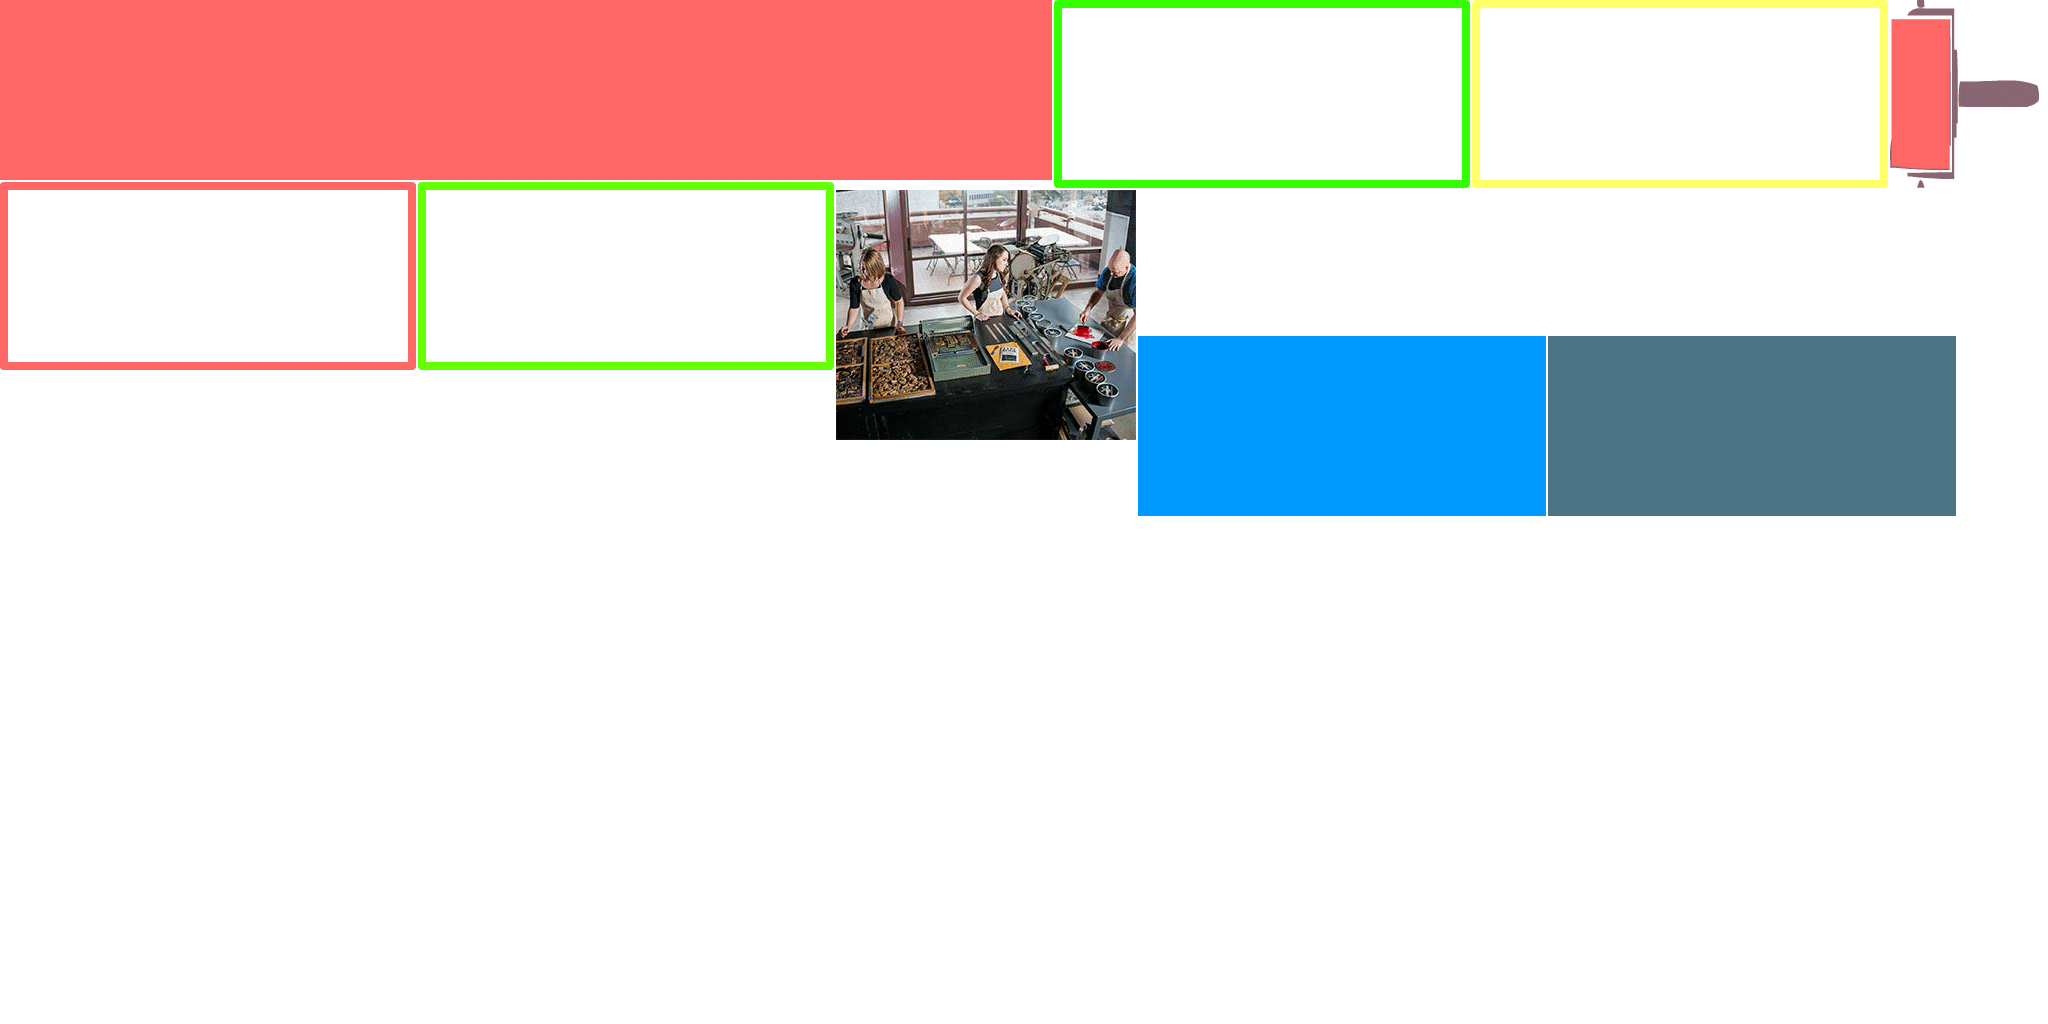
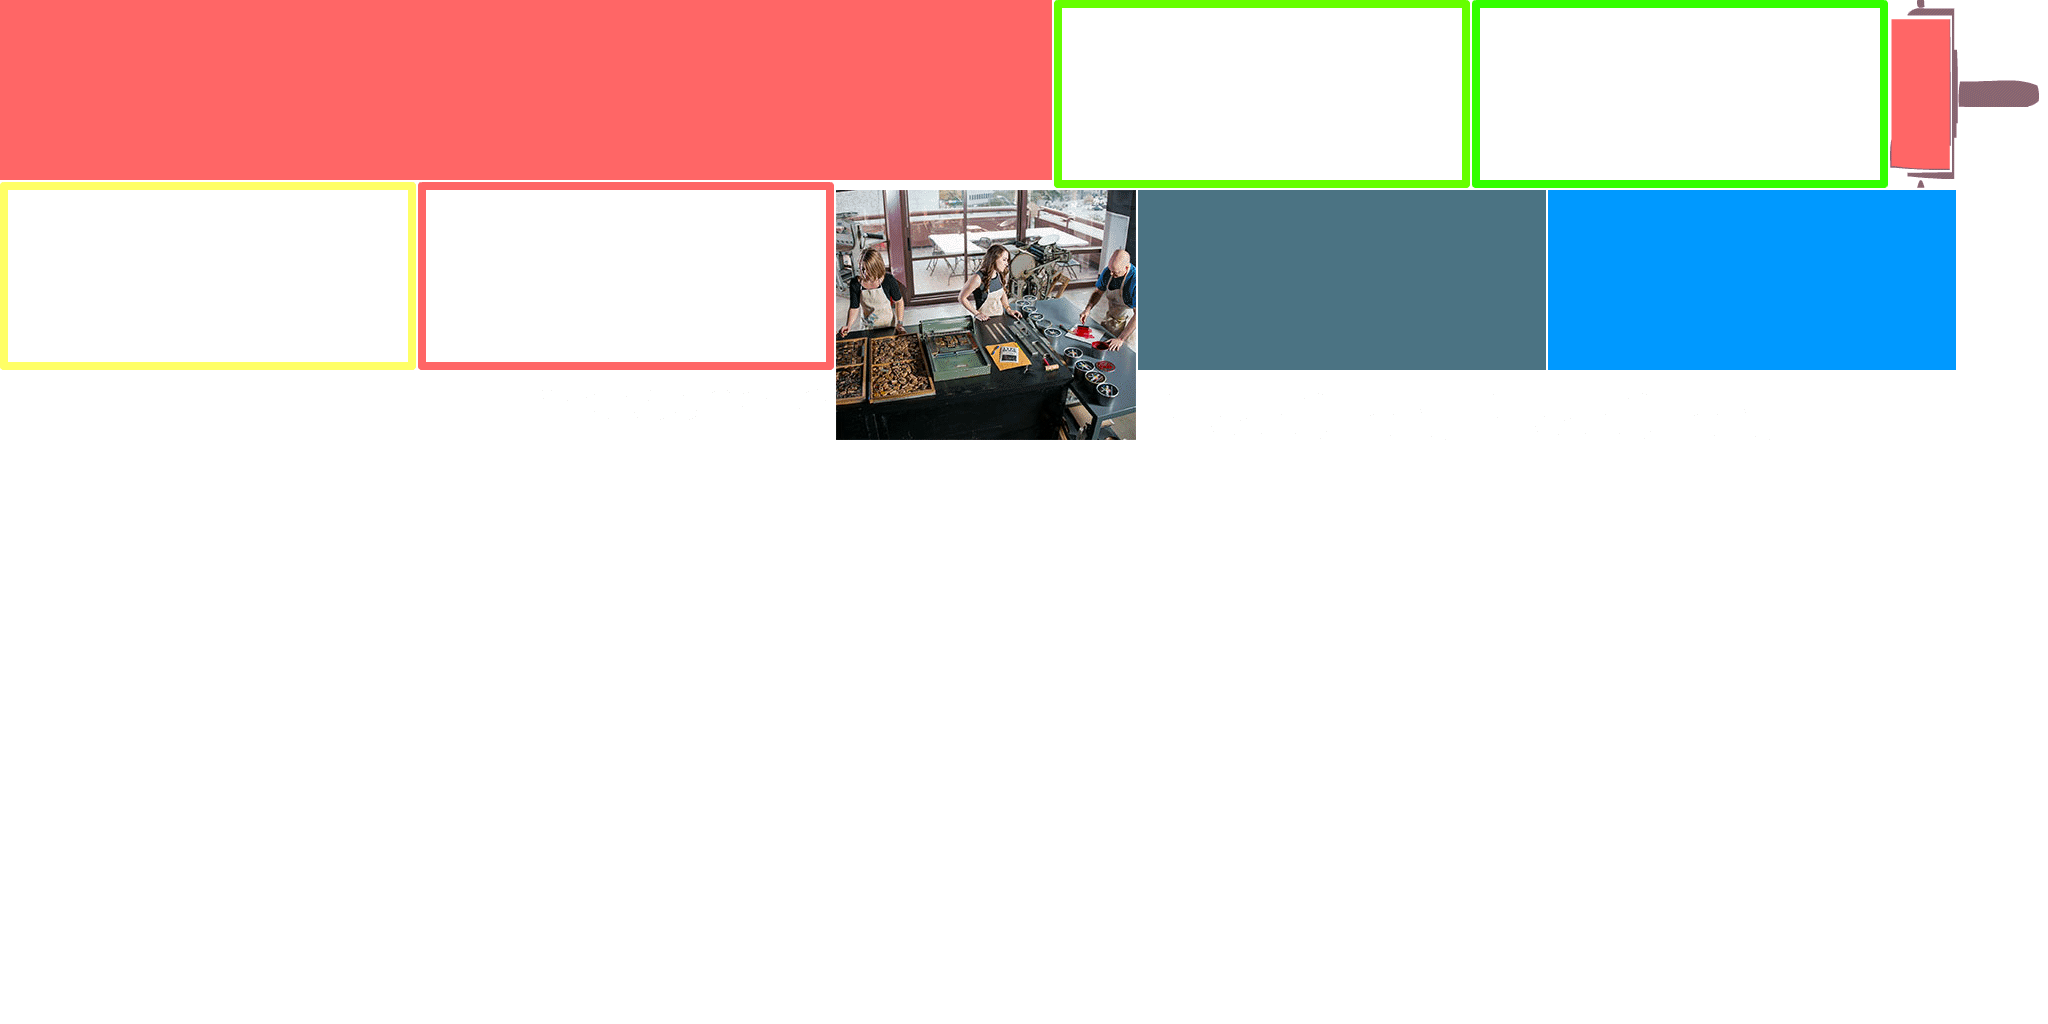
Add files via upload

Changed region(s): [[0.5, 0.0, 0.9688, 0.5312], [0.0, 0.1562, 0.4062, 0.375]]

diff --git a/Banner_4_Won_final.js b/Banner_4_Won_final.js
@@ -3,7 +3,7 @@
 var p; // shortcut to reference prototypes
 var lib={};var ss={};var img={};
 lib.ssMetadata = [
-		{name:"Banner_4_Won_final_atlas_", frames: [[418,182,416,188],[0,182,416,188],[1138,190,518,144],[1472,0,416,188],[324,372,322,89],[1658,190,322,89],[1548,336,408,180],[0,372,322,89],[1138,336,408,180],[0,0,1052,180],[1890,0,149,188],[1054,0,416,188],[836,190,300,250]]}
+		{name:"Banner_4_Won_final_atlas_", frames: [[1054,0,416,188],[418,182,416,188],[0,372,518,144],[0,182,416,188],[1462,372,322,89],[1138,190,408,180],[1138,372,322,89],[1548,190,408,180],[0,0,1052,180],[520,372,306,48],[1890,0,149,188],[1472,0,416,188],[836,190,300,250]]}
 ];
 
 
@@ -39,7 +39,7 @@ lib.ssMetadata = [
 
 
 
-(lib.CachedTexturedBitmap_31 = function() {
+(lib.CachedTexturedBitmap_32 = function() {
 	this.initialize(ss["Banner_4_Won_final_atlas_"]);
 	this.gotoAndStop(4);
 }).prototype = p = new cjs.Sprite();
@@ -131,6 +131,19 @@ function getMCSymbolPrototype(symbol, nominalBounds, frameBounds) {
 }).prototype = getMCSymbolPrototype(lib.mc_simpleBryer, new cjs.Rectangle(0,-8.5,74.5,94), null);
 
 
+(lib.mc_PressShore = function(mode,startPosition,loop) {
+	this.initialize(mode,startPosition,loop,{});
+
+	// Layer_1
+	this.instance = new lib.CachedTexturedBitmap_37();
+	this.instance.parent = this;
+	this.instance.setTransform(0,0,0.5,0.5);
+
+	this.timeline.addTween(cjs.Tween.get(this.instance).wait(1));
+
+}).prototype = getMCSymbolPrototype(lib.mc_PressShore, new cjs.Rectangle(0,0,153,24), null);
+
+
 (lib.mc_photo = function(mode,startPosition,loop) {
 	this.initialize(mode,startPosition,loop,{});
 
@@ -147,7 +160,7 @@ function getMCSymbolPrototype(symbol, nominalBounds, frameBounds) {
 	this.initialize(mode,startPosition,loop,{});
 
 	// Layer_1
-	this.instance = new lib.CachedTexturedBitmap_37();
+	this.instance = new lib.CachedTexturedBitmap_36();
 	this.instance.parent = this;
 	this.instance.setTransform(0,0,0.5,0.5);
 
@@ -159,28 +172,31 @@ function getMCSymbolPrototype(symbol, nominalBounds, frameBounds) {
 (lib.buttonPressShore = function(mode,startPosition,loop) {
 	this.initialize(mode,startPosition,loop,{});
 
-	// Layer_1
-	this.instance = new lib.CachedTexturedBitmap_31();
+	// buttonText
+	this.instance = new lib.mc_PressShore();
 	this.instance.parent = this;
-	this.instance.setTransform(21,22.2,0.5,0.5);
+	this.instance.setTransform(102.05,44.65,1,1,0,0,0,76.5,11.9);
 
-	this.instance_1 = new lib.CachedTexturedBitmap_34();
+	this.timeline.addTween(cjs.Tween.get(this.instance).wait(4));
+
+	// Layer_1
+	this.instance_1 = new lib.CachedTexturedBitmap_33();
 	this.instance_1.parent = this;
 	this.instance_1.setTransform(0,0,0.5,0.5);
 
-	this.instance_2 = new lib.CachedTexturedBitmap_33();
+	this.instance_2 = new lib.CachedTexturedBitmap_32();
 	this.instance_2.parent = this;
 	this.instance_2.setTransform(21,22.2,0.5,0.5);
 
-	this.instance_3 = new lib.CachedTexturedBitmap_35();
+	this.instance_3 = new lib.CachedTexturedBitmap_34();
 	this.instance_3.parent = this;
 	this.instance_3.setTransform(21,22.2,0.5,0.5);
 
-	this.instance_4 = new lib.CachedTexturedBitmap_36();
+	this.instance_4 = new lib.CachedTexturedBitmap_35();
 	this.instance_4.parent = this;
 	this.instance_4.setTransform(0,0,0.5,0.5);
 
-	this.timeline.addTween(cjs.Tween.get({}).to({state:[{t:this.instance_1},{t:this.instance}]}).to({state:[{t:this.instance_1},{t:this.instance_2}]},1).to({state:[{t:this.instance_1},{t:this.instance_3}]},1).to({state:[{t:this.instance_4}]},1).wait(1));
+	this.timeline.addTween(cjs.Tween.get({}).to({state:[{t:this.instance_1}]}).to({state:[{t:this.instance_1},{t:this.instance_2}]},1).to({state:[{t:this.instance_1},{t:this.instance_3}]},1).to({state:[{t:this.instance_4}]},1).wait(1));
 
 }).prototype = p = new cjs.MovieClip();
 p.nominalBounds = new cjs.Rectangle(0,0,204,90);
@@ -377,7 +393,7 @@ lib.properties = {
 	color: "#FFFFFF",
 	opacity: 1.00,
 	manifest: [
-		{src:"images/Banner_4_Won_final_atlas_.png?1572897054555", id:"Banner_4_Won_final_atlas_"}
+		{src:"images/Banner_4_Won_final_atlas_.png", id:"Banner_4_Won_final_atlas_"}
 	],
 	preloads: []
 };

diff --git a/Banner_4_Won_final.html b/Banner_4_Won_final.html
@@ -14,7 +14,7 @@
 <title>Banner_4_Won_final</title>
 <!-- write your code here -->
 <script src="https://code.createjs.com/createjs-2015.11.26.min.js"></script>
-<script src="Banner_4_Won_final.js?1572897054579"></script>
+<script src="Banner_4_Won_final.js"></script>
 <script>
 var canvas, stage, exportRoot, anim_container, dom_overlay_container, fnStartAnimation;
 function init() {
